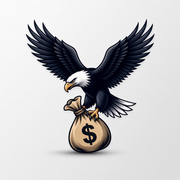
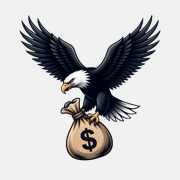
grok/appicon-white-plate (#3020)

Changed region(s): [[0.1111, 0.0833, 0.8889, 0.9167]]

diff --git a/docs/brand/assets/README.md b/docs/brand/assets/README.md
@@ -11,7 +11,7 @@
 - **Website:** transparent lockup/mark only (no cream fill) — the UI supplies the background.
 - **Light lockup:** solid black letters on transparent (good on light/cream UI).
 - **Dark lockup:** same art with **white** letters; eagle colors preserved.
-- **iOS AppIcon only:** opaque light-gray full-bleed plate (`eagle-app-icon-light-1024.png` / `source-owner-app-icon-1024x1024.jpg`). Hi-res master: `eagle-app-icon-light-1408.png` / `source-owner-app-icon-1408x1408.jpg`. iOS rejects transparent AppIcon.
+- **iOS AppIcon only:** opaque **white/off-white full-bleed plate** + eagle mark (`eagle-app-icon-light-1024.png`). Hi-res: `eagle-app-icon-light-1408.png`. iOS rejects transparent AppIcon and applies its own squircle — do **not** ship pre-rounded mockups with outer canvas (kept only as `source-owner-app-icon-mockup-rounded-1408x1408.jpg` for reference).
 - **Everywhere else that allows alpha** (web/PWA icons, favicon, apple-touch-icon, splash, in-app BrandLogo): transparent eagle mark — no plate fill.
 - **Social OG cards:** horizontal site-heading lockup (CONGRESS · eagle · TRADE), light plate; context subtitles for Trends / Company / Politician deep links.
 
@@ -25,11 +25,13 @@
 | `eagle-lockup-dark-ui.png` | Website dark type (white text), transparent |
 | `eagle-header-lockup-{light,dark}-*.png` | High-DPI header embeds |
 | `eagle-moneybag-icon-square.png` | Transparent eagle mark (splash / BrandLogo) |
-| `source-owner-app-icon-1024x1024.jpg` | Owner App Store / AppIcon plate (1024×1024) |
-| `source-owner-app-icon-1408x1408.jpg` | Owner app-icon master at 1408×1408 |
-| `eagle-app-icon-light-1024.png` | iOS AppIcon + derived PWA icons |
-| `eagle-app-icon-light-1408.png` | Hi-res app-icon master |
-| `eagle-app-icon-light-{180,192,512}.png` | Derived install / PWA sizes |
+| `source-owner-app-icon-1024x1024.jpg` | Legacy reference only; not the installed AppIcon source |
+| `source-owner-app-icon-1408x1408.jpg` | Legacy reference only; not the installed AppIcon source |
+| `source-owner-app-icon-mockup-rounded-1408x1408.jpg` | Pre-rounded presentation mockup; reference only, never install as AppIcon |
+| `eagle-app-icon-light-1024.png` | Opaque full-bleed iOS AppIcon source |
+| `eagle-app-icon-light-1408.png` | Hi-res opaque full-bleed iOS AppIcon source |
+| `eagle-app-icon-light-{180,192,512}.png` | Plate-filled reference exports; not the transparent web/PWA icons |
+| `eagle-app-icon-1024.png` | Archived navy mockup — **do not use** |
 | `eagle-mark-transparent-*.png` | Transparent mark sizes |
 | `og-image-light-1200x630.png` | Default social card master |
 | `og-image-{trends,company,politician}-1200x630.png` | Context social card masters |
@@ -48,7 +50,7 @@ Older experiments, navy mockups, circle badges, and superseded sizes live in **`
 - Web `app/public/og-image-{trends,company,politician}.png` ← context cards (`?v=22`)
 - iOS `BrandLockup` ← light (black letters) + dark (white letters)
 - iOS `BrandLogo` ← transparent eagle mark (in-app; alpha OK)
-- iOS `AppIcon` ← **opaque** owner 1024×1024 plate (light bg + soft shadow); web icons stay transparent
+- iOS `AppIcon` ← **opaque** `eagle-app-icon-light-1024.png` full-bleed plate only (not the JPG references or rounded mockup); web icons stay transparent
 
 ## Regenerating OG cards
 
